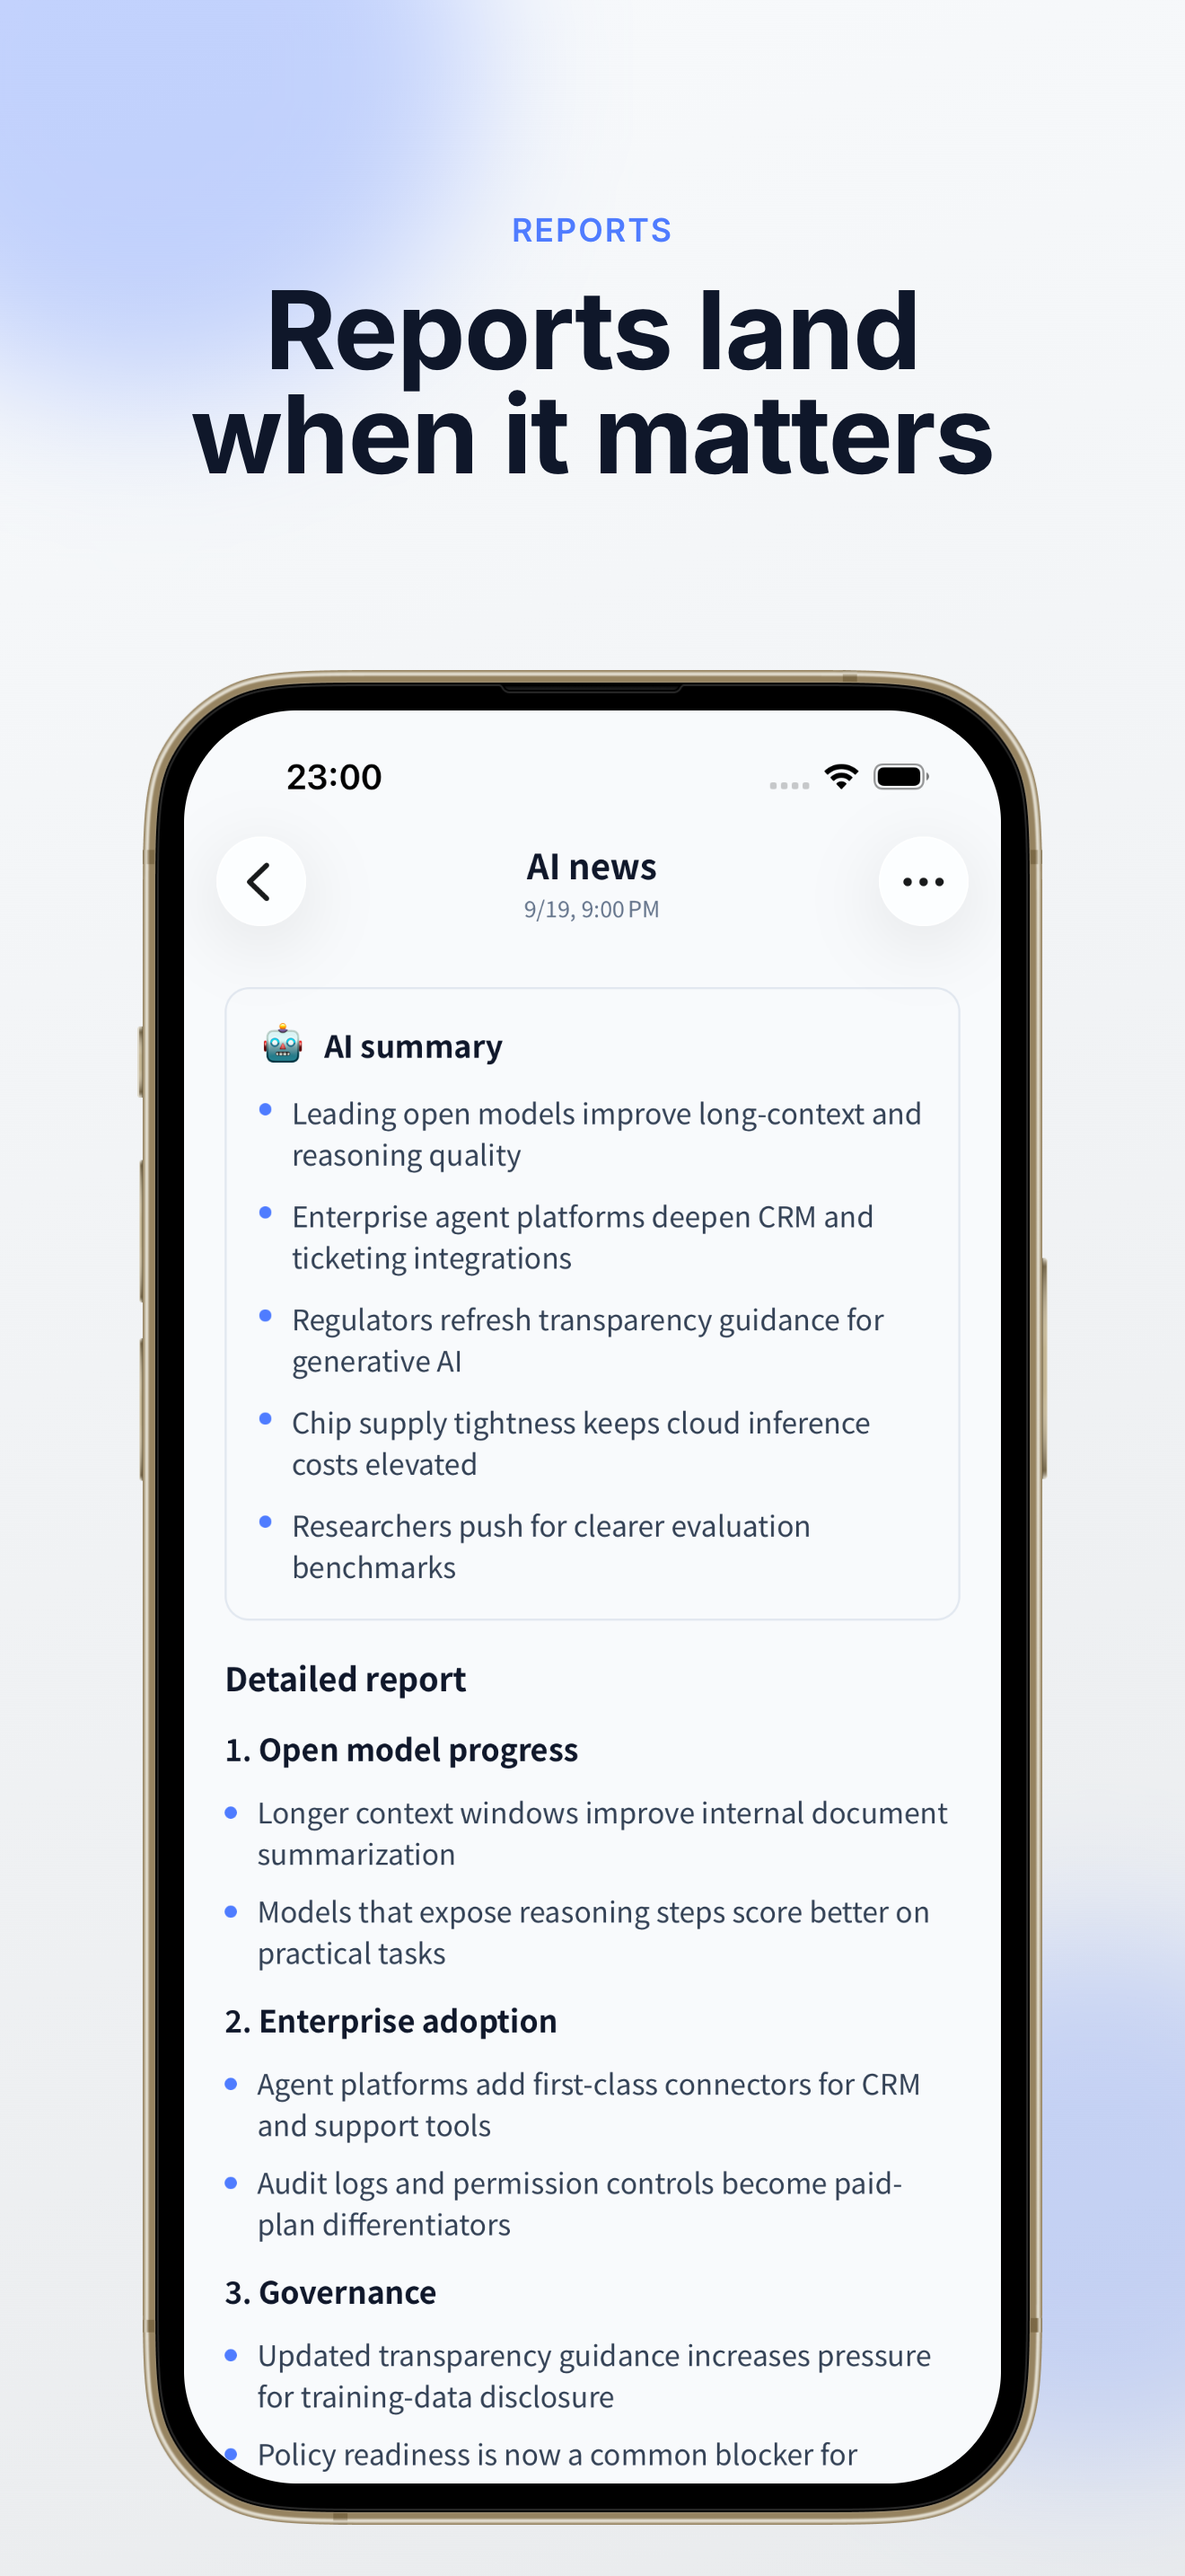
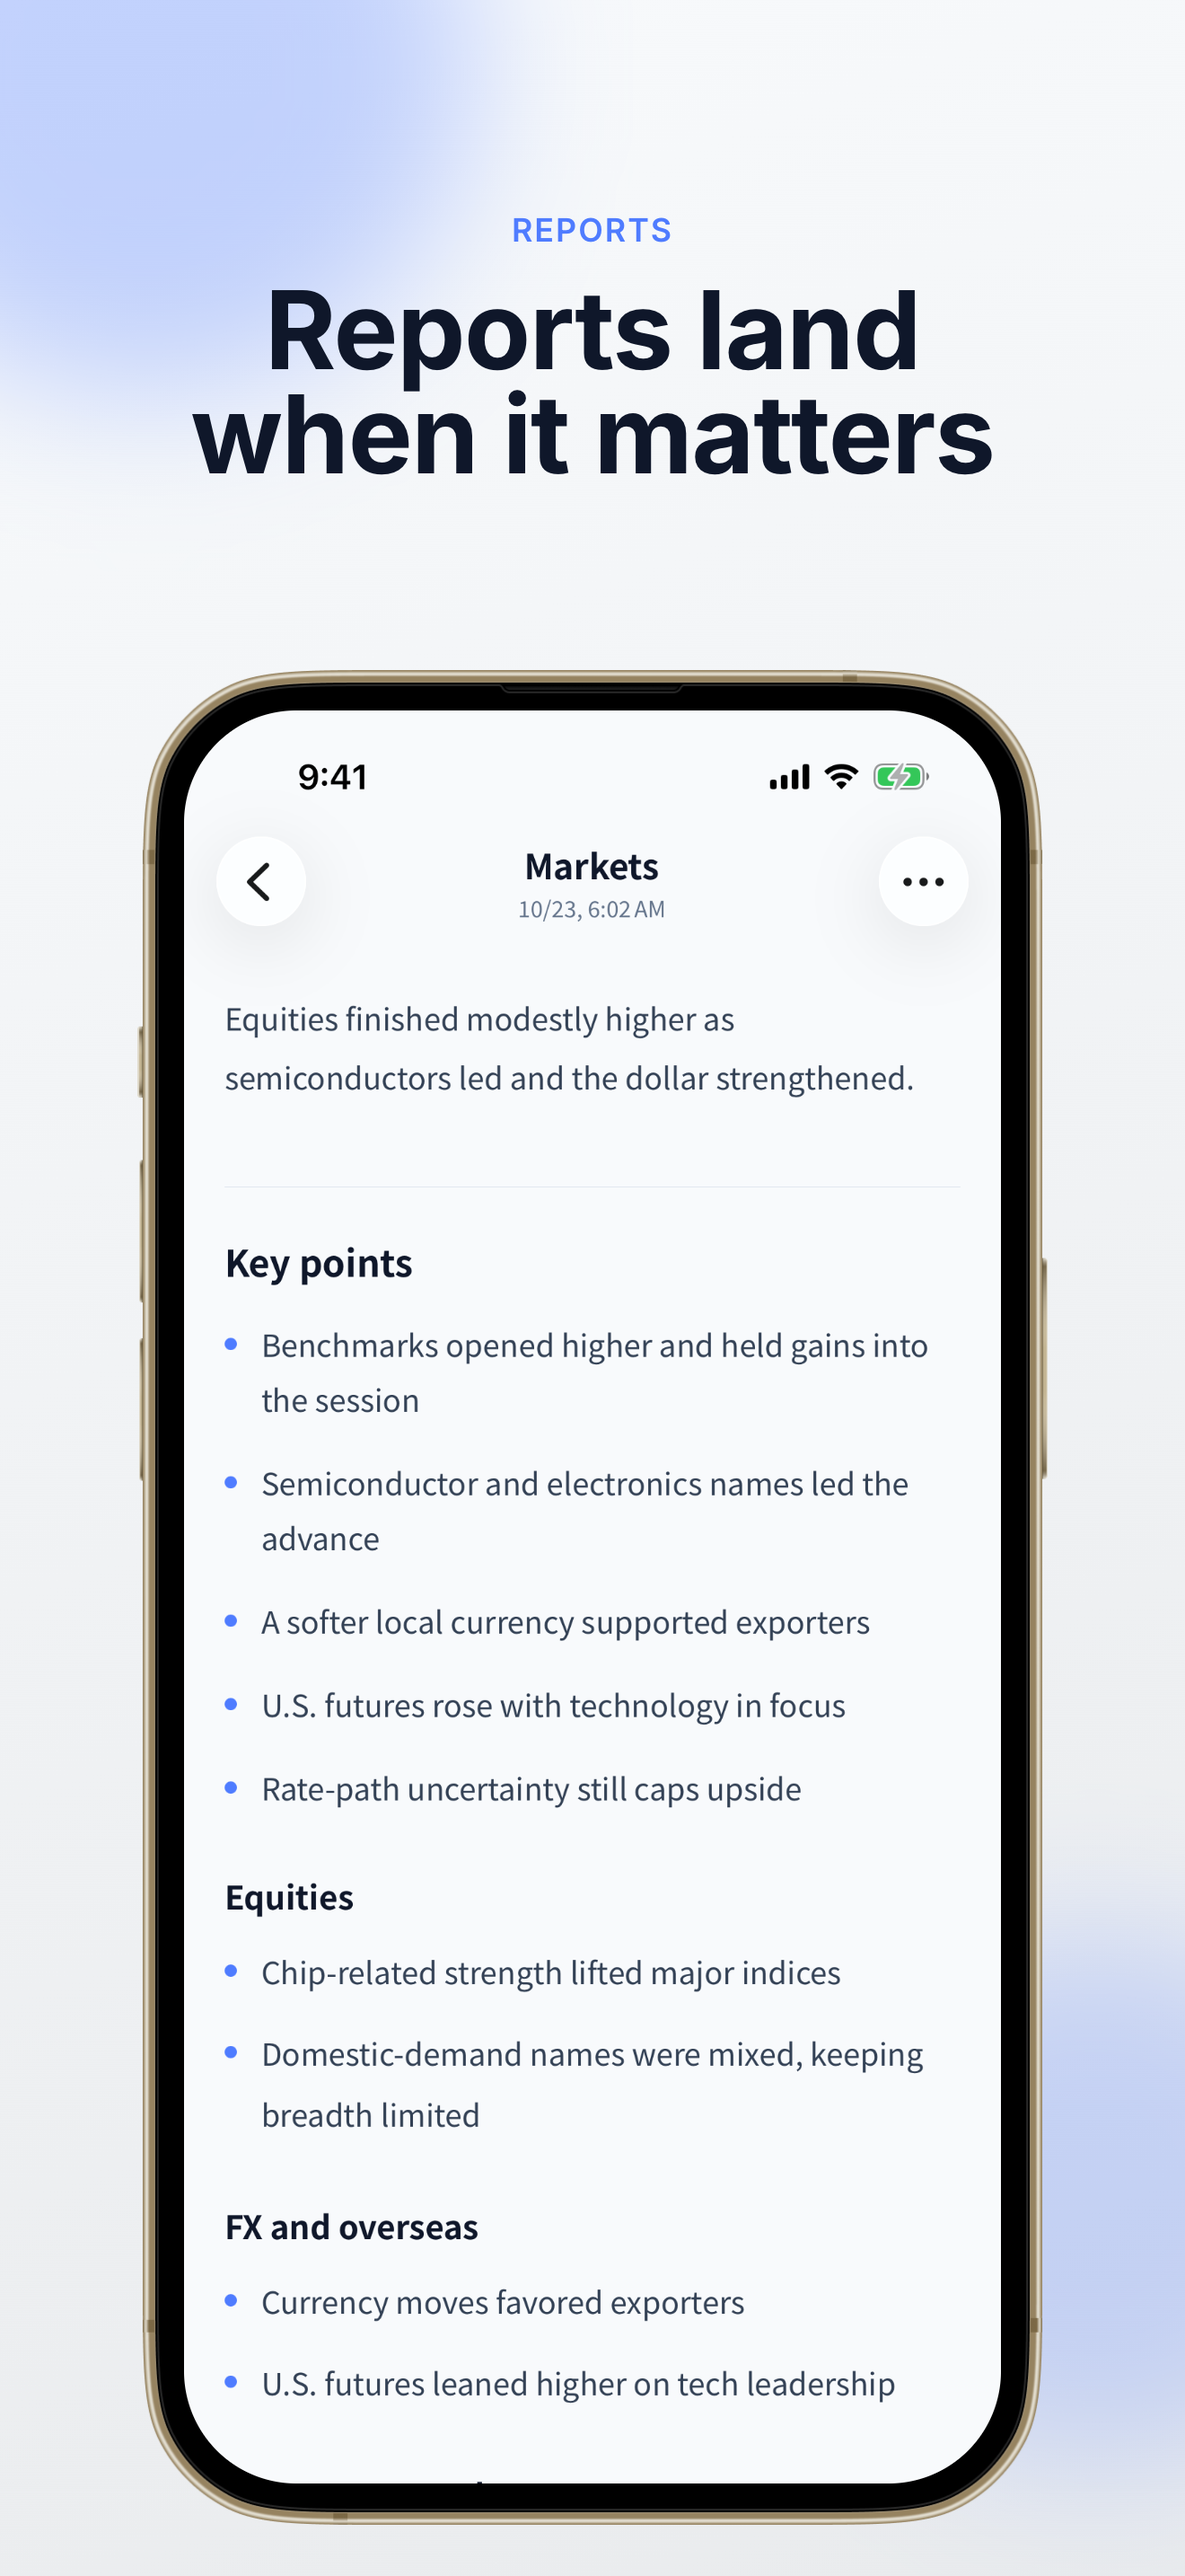
Watcher: 公開中の v1.2.2 をサイトに反映
- version を 1.2.0 → 1.2.2
- スクリーンショット（ja/en）を 10/23 撮り直しのストア用画像に差し替え
- 機能に「まとめて選択」「サイドバー」を追加。期間の指定・画像共有の中身を追記
- プラン表記をアプリ・サーバーの実装（docs/monetization-spec.md §2-4）に合わせる
  - レポート履歴: お試し —／Standard 直近 7 件 / ウォッチ／Pro 無制限
  - タグ（旧カテゴリ）は全プラン、テーマ切替は Standard / Pro

Claude-Session: https://claude.ai/code/session_015CGpQyP52mxAiLJkiGT3gy

diff --git a/src/apps/watcher/config.ts b/src/apps/watcher/config.ts
@@ -23,7 +23,7 @@ export const app: AppConfig = {
   supportEmail: 'support-app+watcher@testkun.net',
   icon,
   appStoreUrl: 'https://apps.apple.com/jp/app/id6772545052',
-  version: '1.2.0',
+  version: '1.2.2',
   og: {
     headline: {
       ja: 'あなたの「気になる」を、\nAI が見張って、\nまとめて届ける。',
